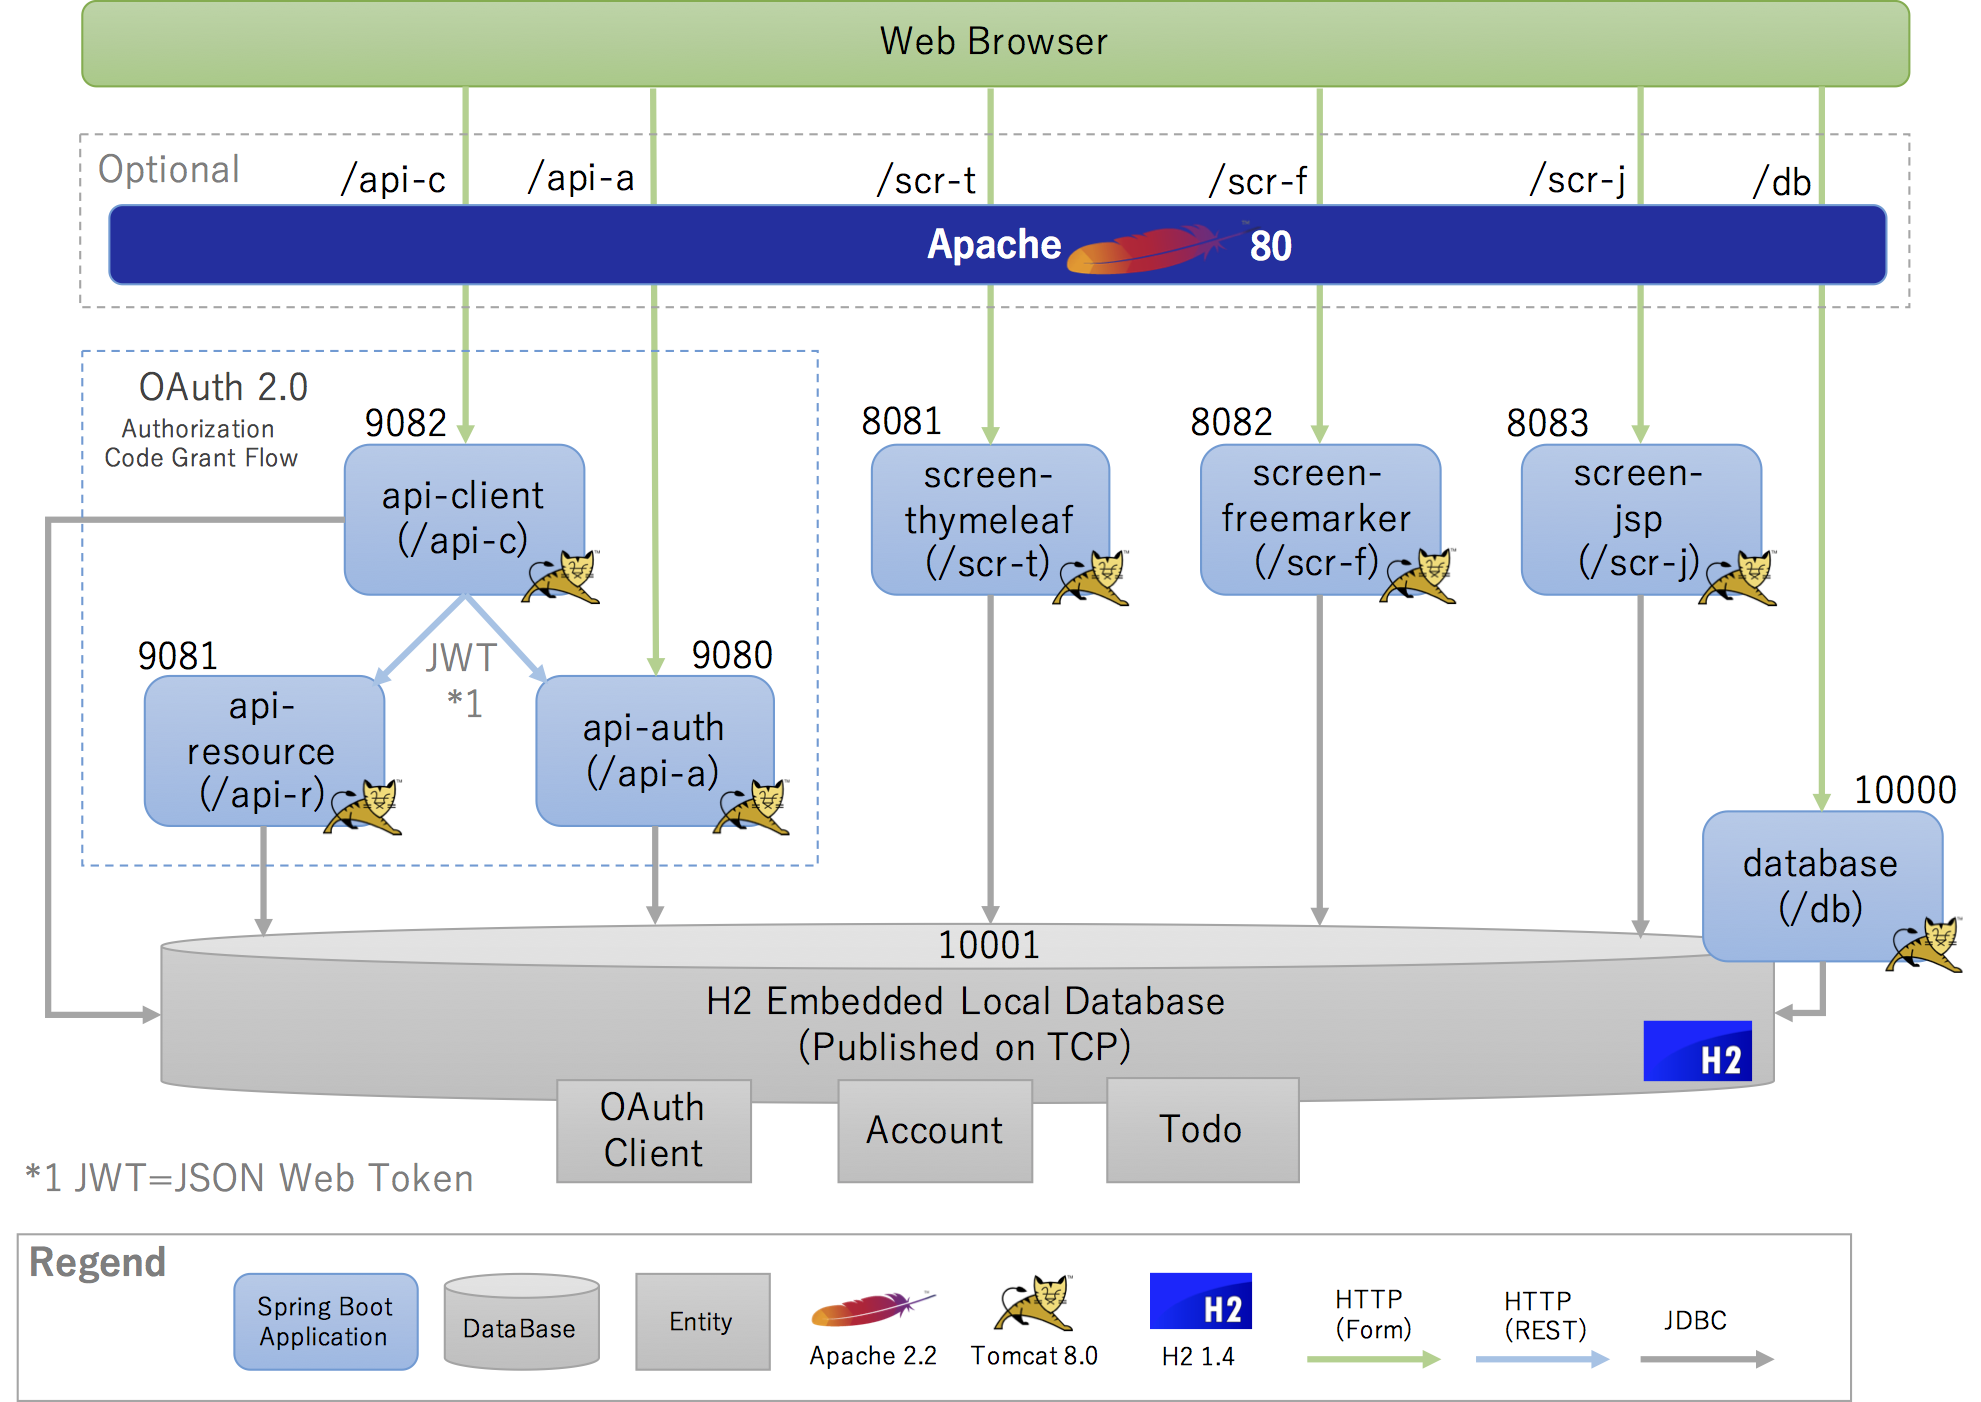
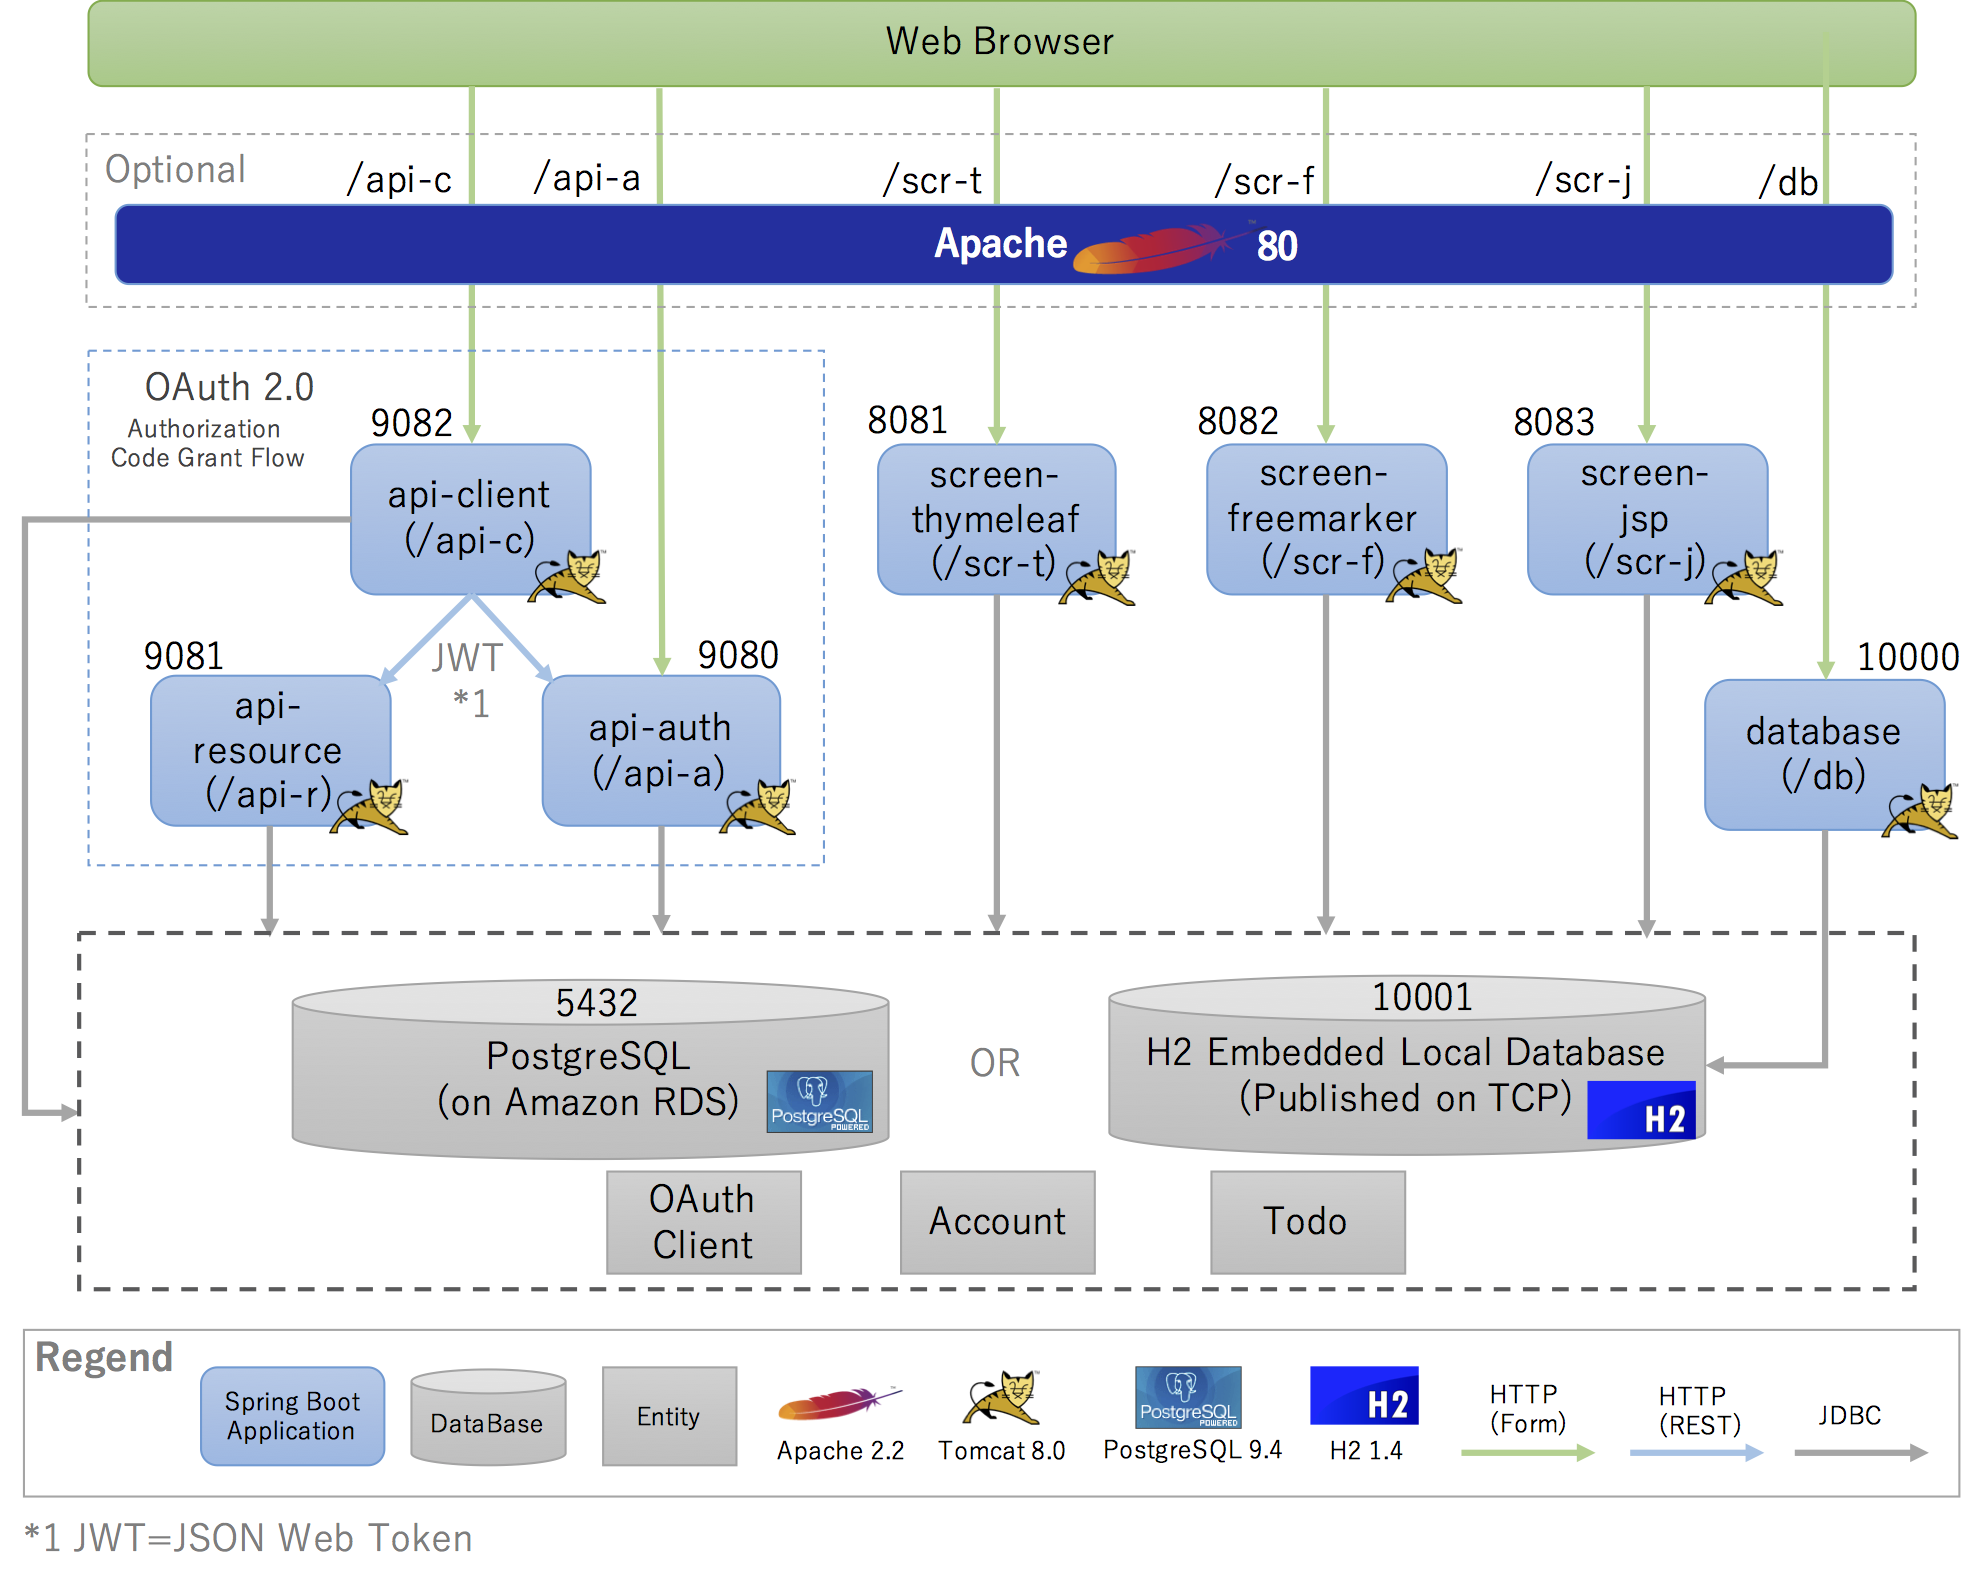
Support PostgreSQL in document

diff --git a/README.md b/README.md
@@ -142,6 +142,7 @@ $ fg
 ## Run on EC2 instance of AWS
 
 This sample application has been published using [EC2 instance of AWS ](http://ec2-52-69-78-174.ap-northeast-1.compute.amazonaws.com/).
+And database use a PostgreSQL on RDS instance of AWS.
 
 ### How to release to EC2 instance
 
@@ -281,6 +282,76 @@ e.g.)
 ```console
 $ sudo chkconfig --add boot-db
 ```
+
+### How to use the PostgreSQL
+
+#### How to setup database objects and data
+
+It use the sql-maven-plugin.
+
+##### For localhost
+
+It execute the `sql:execute` command.
+
+```console
+mvn -f database/pom.xml sql:execute
+```
+
+##### For RDS of AWS
+
+Add server settings of PostgreSQL in `$HOME/.m2/settings.xml` as follow.
+
+```
+<settings xmlns="http://maven.apache.org/SETTINGS/1.0.0"
+    xmlns:xsi="http://www.w3.org/2001/XMLSchema-instance"
+    xsi:schemaLocation="http://maven.apache.org/SETTINGS/1.0.0 https://maven.apache.org/xsd/settings-1.0.0.xsd">
+    <servers>
+        <server>
+            <id>postgresql</id>
+            <username>{username}</username>
+            <password>{password}</password>
+        </server>
+    </servers>
+</settings>
+```
+
+> Note:
+>
+> About how to encrypt a password, refer to https://maven.apache.org/guides/mini/guide-encryption.html.
+
+Execute the `sql:execute` command.
+
+```console
+mvn -f database/pom.xml sql:execute (-P aws) (-Ddb.url=jdbc:postgresql://{host}(:{port})/{databaseName})
+```
+
+> Note:
+>
+> Please change the property value of `db.url` in `database/pom.xml` or override property value using -D option(`-Ddb.url=jdbc:postgresql://{host}(:{port})/{databaseName}`).
+
+
+#### How to modify connection pool settings
+
+It create the `application-mybatis.yml` to override default settings on `${HOME}/apps/${VERSION}` as follow.
+
+```yml
+spring:
+  datasource:
+    tomcat:
+      driver-class-name: org.postgresql.Driver
+      url: jdbc:postgresql://{host}(:{port})/{databaseName}
+      username: {username}
+      password: {password}
+```
+
+> Note:
+>
+> Spring has not been supported functionality to encrypt a password yet.
+>
+> * https://jira.spring.io/browse/SPR-10666
+> * https://github.com/spring-projects/spring-security/issues/3323
+> * https://github.com/spring-projects/spring-boot/issues/1312
+
 
 ## Apache Reverse Proxy Settings
 
